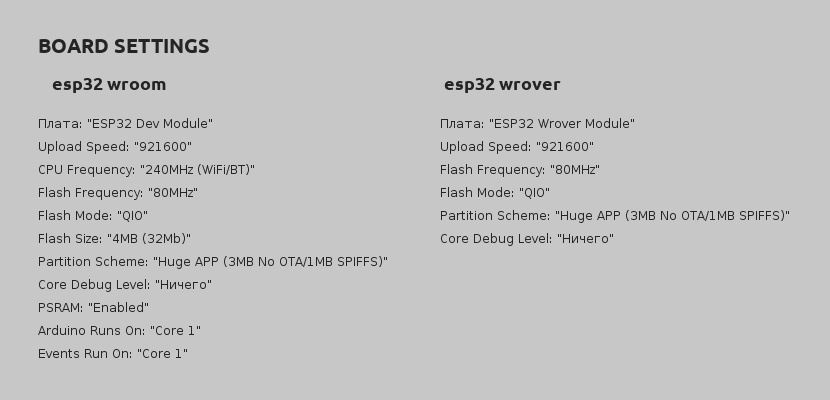
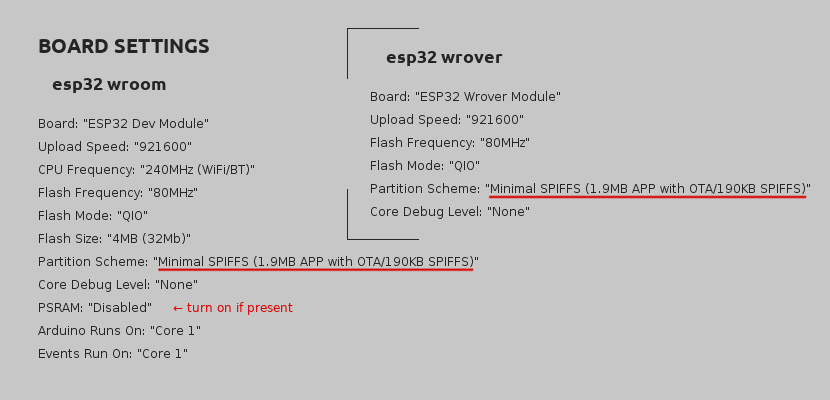
v0.6.250

diff --git a/yoRadio/data/www/update.html b/yoRadio/data/www/update.html
@@ -1,0 +1,38 @@
+<!DOCTYPE html>
+<head>
+  <meta charset="UTF-8">
+  <meta name="viewport" content="width=device-width, minimum-scale=0.25">
+  <meta name="apple-mobile-web-app-capable" content="yes">
+  <meta name="apple-mobile-web-app-status-bar-style" content="default">
+  <link rel="apple-touch-icon" type="image/png" href="elogo.png">
+  <link rel="icon" type="image/png" href="elogo.png">
+  <link rel="stylesheet" title="base" href="style.css" type="text/css">
+  <title>ёRadio-update</title>
+  <style>
+  </style>
+  </head>
+<body>
+  <div class="content">
+    <div class="logo"></div>
+    <div class="playerwrap">
+      <div class="player" id="uploaderwrap">
+        <div id="uploadstatus">Please choose firmware or SPIFFS *.bin file</div>
+        <form id="updateform" method="POST" action="/update" enctype="multipart/form-data">
+          <div class="row">
+            <label for="uploadtype1"><input type="radio" id="uploadtype1" name="updatetarget" value="fw" checked /><span class="checkmark"></span> firmware</label>
+            <label for="contactChoice2"><input type="radio" id="uploadtype2" name="updatetarget" value="spiffs" /><span class="checkmark"></span> SPIFFS</label>
+          </div>
+          <div class="row rowinput">
+            <input id="binfile" type="file" accept=".bin,.hex" name="update" />
+            <input type="button" class="button" value="Update" onclick="doUpdate(this)">
+          </div>
+        </form>
+        <progress id="updateprogress" max="100" value="70" hidden></progress>
+        <a href="/" class="button" id="update_cancel_button">Cancel</a>
+      </div><!--player-->
+    </div><!--playerwrap-->
+    <div id="copy">powered by <a target="_blank" href="https://github.com/e2002/yoradio/">ёRadio</a> | v%VERSION%</div>
+  </div>
+  <script src="script.js"></script>
+</body>
+</html>

diff --git a/yoRadio/data/www/index.html b/yoRadio/data/www/index.html
@@ -15,7 +15,11 @@
     <div class="logo"></div>
     <div id="navbar"%APMODE%>
       <div class="playerbytton navbutton" id="playlistbutton" onclick="showEditor()"></div>
-      <div class="playerbytton navbutton" id="settingsbutton" onclick="showSettings()"></div>
+      <div class="playerbytton navbutton" id="settingsbutton" onclick="event.stopPropagation(); showSettings()"></div>
+      <div id="settingspopup" class="hidden">
+        <div class="button" id="settingsbuttonwifi" onclick="showSettingsWifi()">Wi-Fi</div>
+        <div class="button" id="settingsbuttonupload" onclick="showSettingsUoload()">Update</div>
+      </div>
     </div>
     <div class="playerwrap">
       <div class="player">

diff --git a/yoRadio/netserver.cpp b/yoRadio/netserver.cpp
@@ -8,6 +8,7 @@
 #include "options.h"
 #include "network.h"
 #include "mqtt.h"
+#include <Update.h>
 
 #ifndef MIN_MALLOC
 #define MIN_MALLOC 24112
@@ -24,7 +25,14 @@ void handleUpload(AsyncWebServerRequest *request, String filename, size_t index,
 void onWsEvent(AsyncWebSocket *server, AsyncWebSocketClient *client, AwsEventType type, void *arg, uint8_t *data, size_t len);
 void handleHTTPPost(AsyncWebServerRequest * request);
 
-byte ssidCount;
+byte  ssidCount;
+bool  shouldReboot  = false;
+
+char* updateError(){
+  static char ret[140] = {0};
+  sprintf(ret, "Update failed with error (%d)<br /> %s", (int)Update.getError(), Update.errorString());
+  return ret;
+}
 
 bool NetServer::begin() {
   importRequest = false;
@@ -62,6 +70,40 @@ bool NetServer::begin() {
   webserver.on("/upload", HTTP_POST, [](AsyncWebServerRequest * request) {
     //request->send(200);
   }, handleUpload);
+  webserver.on("/update", HTTP_GET, [](AsyncWebServerRequest *request){
+    request->send(SPIFFS, "/www/update.html", String(), false, processor);
+  });
+  webserver.on("/update", HTTP_POST, [](AsyncWebServerRequest *request){
+    shouldReboot = !Update.hasError();
+    AsyncWebServerResponse *response = request->beginResponse(200, "text/plain", shouldReboot?"OK": updateError());
+    response->addHeader("Connection", "close");
+    request->send(response);
+  },[](AsyncWebServerRequest *request, String filename, size_t index, uint8_t *data, size_t len, bool final){
+    if(!index){
+      int target = (request->getParam("updatetarget", true)->value() == "spiffs") ? U_SPIFFS : U_FLASH;
+      Serial.printf("Update Start: %s\n", filename.c_str());
+      player.mode = STOPPED;
+      display.putRequest({NEWMODE, UPDATING});
+      if(!Update.begin(UPDATE_SIZE_UNKNOWN, target)){
+        Update.printError(Serial);
+        request->send(200, "text/html", updateError());
+      }
+    }
+    if(!Update.hasError()){
+      if(Update.write(data, len) != len){
+        Update.printError(Serial);
+        request->send(200, "text/html", updateError());
+      }
+    }
+    if(final){
+      if(Update.end(true)){
+        Serial.printf("Update Success: %uB\n", index+len);
+      } else {
+        Update.printError(Serial);
+        request->send(200, "text/html", updateError());
+      }
+    }
+  });
   webserver.begin();
   websocket.onEvent(onWsEvent);
   webserver.addHandler(&websocket);
@@ -77,6 +119,11 @@ bool NetServer::begin() {
 }
 
 void NetServer::loop() {
+  if(shouldReboot){
+    Serial.println("Rebooting...");
+    delay(100);
+    ESP.restart();
+  }
   websocket.cleanupClients();
   if (playlistrequest > 0) {
     requestOnChange(PLAYLIST, playlistrequest);

diff --git a/yoRadio/mqtt.cpp b/yoRadio/mqtt.cpp
@@ -88,7 +88,8 @@ void onMqttMessage(char* topic, char* payload, AsyncMqttClientMessageProperties 
     return;
   }
   if (strcmp(buf, "start") == 0 || strcmp(buf, "play") == 0) {
-    player.play(config.store.lastStation);
+    //player.play(config.store.lastStation);
+    player.request.station = config.store.lastStation;
     return;
   }
   if (strcmp(buf, "boot") == 0 || strcmp(buf, "reboot") == 0) {
@@ -114,7 +115,9 @@ void onMqttMessage(char* topic, char* payload, AsyncMqttClientMessageProperties 
   if (sscanf(buf, "play %d", &sb) == 1 ) {
     if (sb < 1) sb = 1;
     if (sb >= config.store.countStation) sb = config.store.countStation;
-    player.play(sb);
+    //player.play(sb);
+    player.request.station = sb;
+    player.request.doSave = true;
     return;
   }
 }

diff --git a/yoRadio/player.cpp b/yoRadio/player.cpp
@@ -59,7 +59,7 @@ void Player::loop() {
     if (isRunning()) {
       //digitalWrite(LED_BUILTIN, LOW);
       setOutputPins(false);
-      config.setTitle(display.mode==LOST?"":"[stopped]");
+      config.setTitle((display.mode==LOST || display.mode==UPDATING)?"":"[stopped]");
       netserver.requestOnChange(TITLE, 0);
       //stopSong();
       setDefaults();

diff --git a/yoRadio/display.h b/yoRadio/display.h
@@ -36,7 +36,7 @@
 #include "src/displays/displayCustom.h"
 #endif
 
-enum displayMode_e { PLAYER, VOL, STATIONS, NUMBERS, LOST };
+enum displayMode_e { PLAYER, VOL, STATIONS, NUMBERS, LOST, UPDATING };
 
 enum displayRequestType_e { NEWMODE, CLOCK, NEWTITLE, RETURNTITLE, NEWSTATION, NEXTSTATION, DRAWPLAYLIST, DRAWVOL };
 struct requestParams_t

diff --git a/yoRadio/display.cpp b/yoRadio/display.cpp
@@ -328,6 +328,9 @@ void Display::swichMode(displayMode_e newmode) {
   if (newmode == LOST) {
     dsp.frameTitle("* LOST *");
   }
+  if (newmode == UPDATING) {
+    dsp.frameTitle("* UPDATING *");
+  }
   if (newmode == NUMBERS) {
     //dsp.frameTitle("STATION");
     meta.reset();

diff --git a/yoRadio/controls.cpp b/yoRadio/controls.cpp
@@ -103,7 +103,7 @@ void initControls() {
 }
 
 void loopControls() {
-  if(display.mode==LOST) return;
+  if(display.mode==LOST || display.mode==UPDATING) return;
 #if ENC_BTNL!=255
   encoderLoop();
 #endif

diff --git a/yoRadio/options.h b/yoRadio/options.h
@@ -1,7 +1,7 @@
 #ifndef options_h
 #define options_h
 
-#define VERSION "0.6.220"
+#define VERSION "0.6.250"
 
 /*******************************************************
 DO NOT EDIT THIS FILE. 

diff --git a/README.md b/README.md
@@ -9,6 +9,7 @@
 - [Hardware setup](#hardware-setup)
 - [Quick start](#quick-start)
 - [Update](#update)
+- [Update over web-interface](#update-over-web-interface)
 - [Controls](Controls.md)
 - [MQTT](#mqtt)
 - [Home Assistant](#home-assistant)
@@ -209,6 +210,16 @@ download _http://\<yoradioip\>/data/playlist.csv_ and _http://\<yoradioip\>/data
 4. Go to page _http://\<yoradioip\>/_ in the browser and press Ctrl+F5 to update the scripts.
 5. Well done!
 
+## Update over web-interface
+1. Backup your settings: \
+download _http://\<yoradioip\>/data/playlist.csv_ and _http://\<yoradioip\>/data/wifi.csv_ and place them in the yoRadio/data/data/ folder
+2. Get firmware binary: Sketch → Export compiled binary
+3. Get SPIFFS binary: disconnect ESP32 from your computer, click on **ESP32 Data Sketch Upload**. \
+ You will get an error and file path
+ <img src="images/getspiffs.jpg" width="830" height="208">
+4. Go to page _http://\<yoradioip\>/update_ and upload yoRadio.ino.esp32.bin and yoRadio.spiffs.bin in turn, checking the appropriate upload options.
+5. Well done!
+
 ---
 ## MQTT
 1. Copy file exsamples/mqttoptions.h to yoRadio/ directory
@@ -278,6 +289,11 @@ Work is in progress...
 
 ---
 ## Version history
+#### v0.6.250
+- added update via web-interface \
+ **Attention! Full firmware with chip re-partitioning is required!** see [board setup example](#quick-start)
+- fixed choppy when switching stations via Home Assistant
+
 #### v0.6.220
 - new option PLAYER_FORCE_MONO (with i2S DAC only)
 - change default scroll speed in DSP_NOKIA5110
